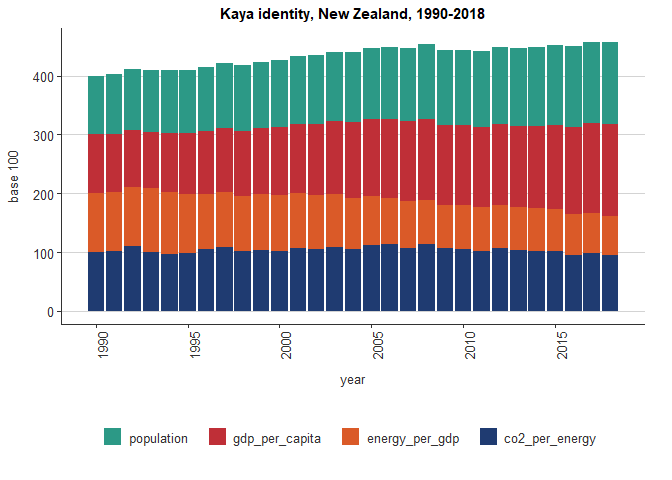
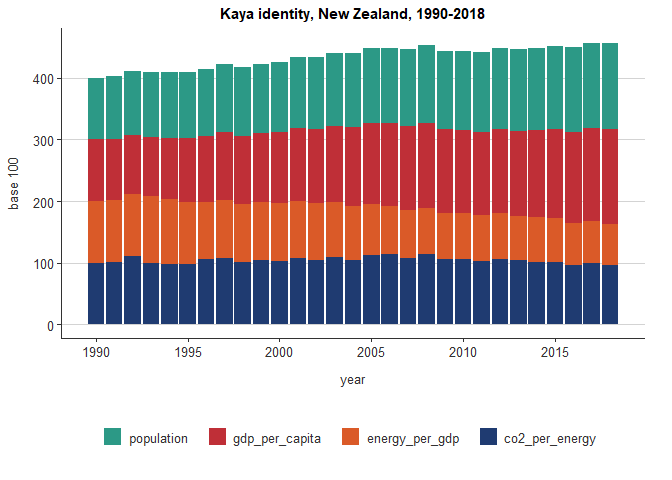
reamde tweaks

diff --git a/README.md b/README.md
@@ -17,24 +17,23 @@ devtools::install_github("MarionaMFE/mfe_pubs")
 
 The package contains the following functions and templates:
 
-1- `er template report`: Environmental Reporting R Markdown/Word
-template
+1- `er template report`: MfE’s Markdown/Word template
 
-2- `mfe_theme()`: Function to set ggplot themes to mfe standard
+2- `mfe_theme()`: Function to set ggplot themes to MfE standard
 
-3- `scale_colour_mfe` and `scale_fill_mfe`: Functions to apply mfe
+3- `scale_colour_mfe` and `scale_fill_mfe`: Functions to apply MfE
 branded color palettes to discrete variables in ggplot graphs.
 
 4- `format_num()`: Function to standarise the format of numbers;
-(decimal places, thousands marks )
+(decimal places, thousands marks)
 
 5- `macron()`: Function that makes sure macrons are properly displayed
 in graphs.
 
 When you have downloaded the package and successfully installed it you
 are good to go and write MfE word documents in R Markdown and create
-charts with MfE themes and colors, including the correct usage of
-Macrons in Te Reo.
+charts with MfE themes and colors, including the display of Macrons in
+Te Reo.
 
 ## Usage
 
@@ -76,11 +75,10 @@ data_long <- melt(spread_table, id = 'year')
 
 A basic explanation and summary here:
 
-`theme_mfe()`: has no arguments and is added to the ggplot chain after
-you have created a plot. What it does is generally makes text size, font
-and colour, axis lines, axis text and many other standard chart
-components into MfE style, which right now is pretty much a copy of
-Stats NZ’s [`simplevis`
+`theme_mfe()`: has is added to the ggplot chain after you have created a
+plot. What it does is generally makes text size, font and colour, axis
+lines, axis text and many other standard chart components into MfE
+style, which right now is pretty much a copy of Stats NZ’s [`simplevis`
 package](https://github.com/StatisticsNZ/simplevis).
 
 The function is pretty basic and does not change or adapt based on the
@@ -92,7 +90,11 @@ chart or bars for a bar chart, do not come out of the box from the
 theme\_mfe() function, but need to be explicitly set in your other
 standard ggplot chart functions.
 
-Example of how it is used in a standard workflow:
+`theme_mfe()` has two optional arguments: `horizontal_axis` which
+defaults to FALSE, and `bottom_legend` which defaults to TRUE.
+
+Example of how the function and its arguments are used in a standard
+workflow:
 
 ``` r
 
@@ -118,6 +120,38 @@ kayaplot + theme_mfe()
 
 ![](man/figures/README-add_mfe_theme-1.png)<!-- -->
 
+Let’s say we want the x axis labels to display horizontally
+
+``` r
+
+kayaplot + theme_mfe(horizontal_axis = TRUE)
+```
+
+![](man/figures/README-add_horizontal_switch-1.png)<!-- -->
+
+Or we might want the legend to display in the right hand side instead
+
+``` r
+kayaplot + theme_mfe(bottom_legend = FALSE)
+```
+
+![](man/figures/README-bottom_legend-1.png)<!-- -->
+
+For any other custom made modifications of the theme, just specify them
+*after* the theme\_mfe() call. If you specify them before, they’ll be
+overwritten by theme\_mfe()
+
+``` r
+kayaplot +
+  theme_mfe(horizontal_axis = TRUE, bottom_legend = FALSE) +
+  theme(axis.text.x = element_text(face="bold", color="#993333", 
+                           size=14, angle=45),
+          axis.text.y = element_text(face="bold", color="#993333", 
+                           size=14, angle=45))
+```
+
+![](man/figures/README-manual_modifications-1.png)<!-- -->
+
 ### `scale_color_mfe()`
 
 To continue with the kaya plot example, we could add MfE branded
@@ -142,7 +176,7 @@ kaya_barplot <- ggplot(data_long, aes(x = year, y = as.numeric(value), fill = va
   ylab('base 100') +
   xlab('year') +
   scale_x_continuous(n.breaks=length(unique(data_long$year))/5) +
-  theme_mfe() +
+  theme_mfe(horizontal_axis = TRUE) +
   scale_fill_mfe(direction = -1)
 
 kaya_barplot
@@ -189,8 +223,8 @@ kaya_barplot_custom <- ggplot(data_long, aes(x = year, y = as.numeric(value), fi
   xlab('year') +
   scale_x_continuous(n.breaks=length(unique(data_long$year))/5) +
   theme_mfe() +
-  scale_fill_manual(values = c(mfe_colours$light_blue, 
-                               mfe_colours$light_green, 
+  scale_fill_manual(values = c(mfe_colours$light_green, 
+                               mfe_colours$red, 
                                mfe_colours$orange, 
                                mfe_colours$metallic_blue))
 
@@ -199,10 +233,10 @@ kaya_barplot_custom
 
 ![](man/figures/README-colour_custom_Scale-2.png)<!-- -->
 
-### `er template report`
+### `MfE's Word template report`
 
 This template is an RMarkdown template that replicates the format and
-style from the ER word template. The template is made available with
+style from the MfE word template. The template is made available with
 package installation. To access the template follow the steps:
 
 1- From RStudio File/ New File/ R Markdown / From Template
